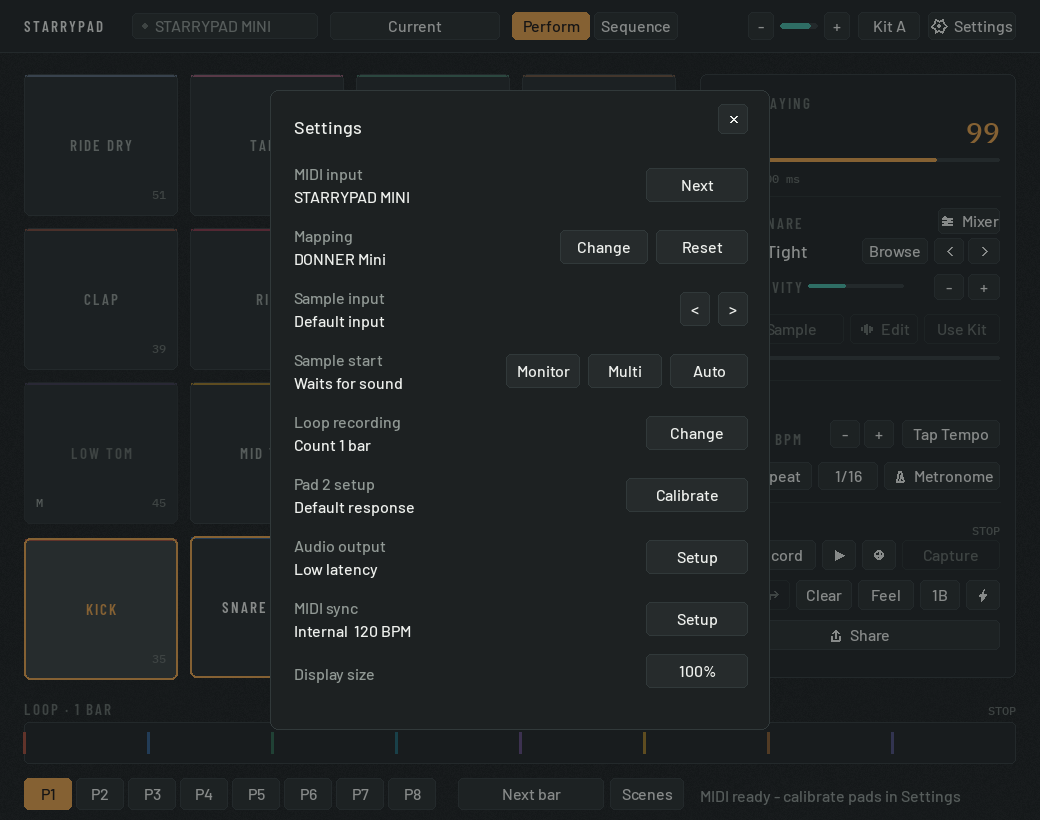
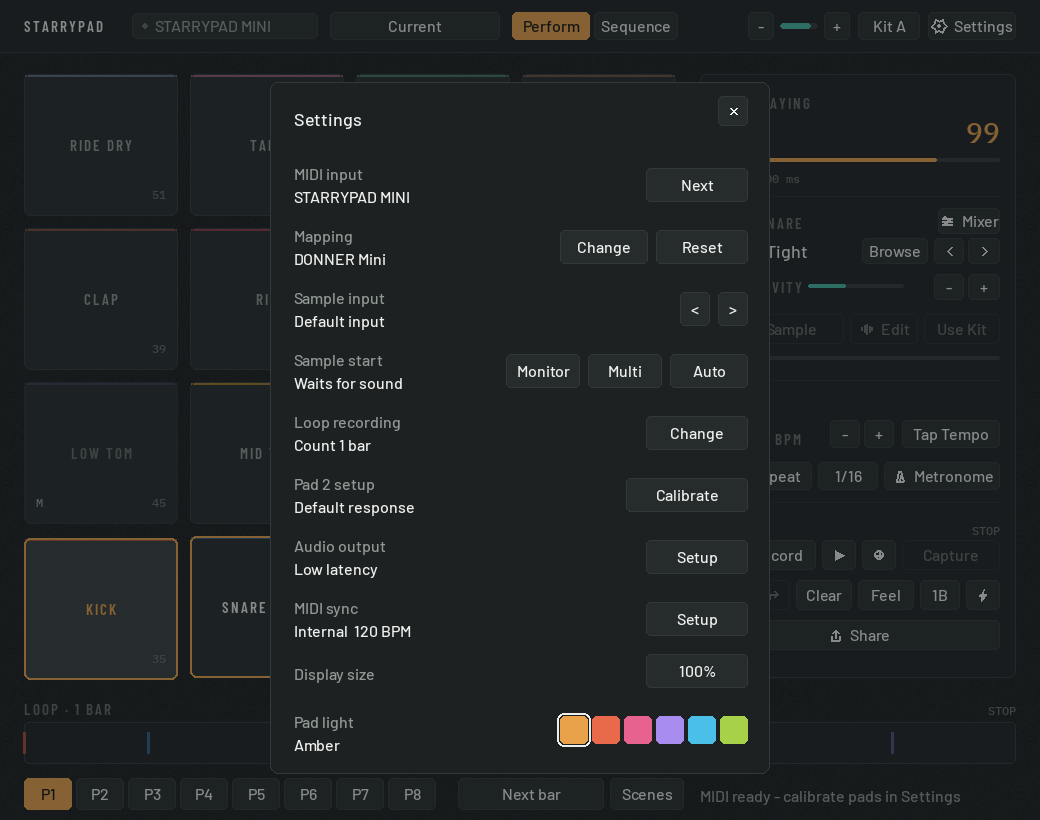
Let the pad light colour be chosen
Amber was hard coded as the one colour the panel spends on "now": the pad
sounding, the pad selected, an armed Record, the loop playhead, the drag chip
and the swap flash. Settings now offers six - Amber, Ember, Rose, Violet, Cyan
and Lime - as swatches, and the choice is remembered.

Because everything already drew through theme.ACCENT rather than importing the
value, rebinding the module global reaches the next frame and repaints every one
of those states together. Nothing else had to change.

The wash behind filled regions is derived by mixing the choice into the ground
rather than being listed per colour, and the ink drawn on top is picked by
relative luminance, so a lighter accent like Lime keeps dark text and the pair
stays readable. A test asserts that gap holds for all six.

Changed region(s): [[0.5231, 0.8537, 0.7385, 0.9146], [0.2769, 0.8537, 0.3385, 0.9146], [0.2769, 0.122, 0.3385, 0.1829]]

diff --git a/drum_pad_native.py b/drum_pad_native.py
@@ -1314,6 +1314,7 @@ class DrumPadNative:
         self.pad_drag_origin = None
         self.pad_drag_active = False
         self.pad_swap_flash = {}
+        self.accent_name = theme.DEFAULT_ACCENT
         self.solo_pads = set()
         self.mixer_bypass = False
         self.mixer_open = False
@@ -1603,6 +1604,9 @@ class DrumPadNative:
             self.audio_rate = audio_mode_config(self.audio_mode)[0]
         if self.audio_buffer not in AUDIO_BUFFERS:
             self.audio_buffer = audio_mode_config(self.audio_mode)[1]
+        accent = str(data.get("accent", theme.DEFAULT_ACCENT))
+        self.accent_name = accent if accent in theme.ACCENT_NAMES else theme.DEFAULT_ACCENT
+        theme.set_accent(self.accent_name)
         try:
             saved_scale = float(data.get("ui_scale", 1.0))
             self.ui_scale = min((1.0, 1.25, 1.5), key=lambda value: abs(value - saved_scale))
@@ -1680,6 +1684,7 @@ class DrumPadNative:
             "audio_rate": self.audio_rate,
             "audio_buffer": self.audio_buffer,
             "ui_scale": self.ui_scale,
+            "accent": self.accent_name,
             "clock_source": self.clock_source,
             "clock_output_enabled": self.clock_output_enabled,
             "midi_output_name": self.midi_output_name,
@@ -3951,6 +3956,8 @@ class DrumPadNative:
                 elif name == "ui_scale":
                     scales = (1.0, 1.25, 1.5)
                     self.set_ui_scale(scales[(scales.index(self.ui_scale) + 1) % len(scales)])
+                elif name.startswith("accent_"):
+                    self.set_accent(name.removeprefix("accent_"))
                 elif name == "sync_back":
                     self.sync_setup_open = False
                 elif name.startswith("sync_source_"):
@@ -4151,6 +4158,16 @@ class DrumPadNative:
                 self.queue_pad(index, 112)
                 self.begin_pad_drag(index, pos)
                 return
+
+    def set_accent(self, name):
+        """Repoint the one colour the panel uses to mean "now"."""
+        if name not in theme.ACCENT_NAMES:
+            return False
+        self.accent_name = name
+        theme.set_accent(name)
+        self.status = f"Pad light: {name}"
+        self.persist_settings_async()
+        return True
 
     def swap_pads(self, first, second):
         """Move one pad's sound onto another and bring its music along.
@@ -7276,12 +7293,12 @@ class DrumPadNative:
         shade = pygame.Surface(WINDOW_SIZE, pygame.SRCALPHA)
         shade.fill((20, 24, 26, 120))
         self.screen.blit(shade, (0, 0))
-        modal = pygame.Rect(270, 90, 500, 640)
+        modal = pygame.Rect(270, 82, 500, 692)
         pygame.draw.rect(self.screen, theme.PANEL, modal, border_radius=8)
         pygame.draw.rect(self.screen, theme.RULE, modal, width=1, border_radius=8)
         title = self.font.render("Settings", True, theme.INK)
-        self.screen.blit(title, (294, 116))
-        self.settings_buttons["settings_close"] = pygame.Rect(718, 104, 30, 30)
+        self.screen.blit(title, (294, 108))
+        self.settings_buttons["settings_close"] = pygame.Rect(718, 96, 30, 30)
         self.draw_button(self.settings_buttons["settings_close"], "", icon="close")
 
         if self.calibration_active:
@@ -7363,6 +7380,16 @@ class DrumPadNative:
         self.screen.blit(self.small_font.render("Display size", True, label_color), (294, 664))
         self.settings_buttons["ui_scale"] = pygame.Rect(646, 654, 102, 34)
         self.draw_button(self.settings_buttons["ui_scale"], f"{round(self.ui_scale * 100)}%")
+
+        self.screen.blit(self.small_font.render("Pad light", True, label_color), (294, 712))
+        self.screen.blit(self.small_font.render(self.accent_name, True, value_color), (294, 735))
+        for index, (name, color) in enumerate(theme.ACCENT_CHOICES):
+            swatch = pygame.Rect(560 + index * 32, 716, 28, 28)
+            self.settings_buttons[f"accent_{name}"] = swatch
+            pygame.draw.rect(self.screen, color, swatch, border_radius=theme.RADIUS["field"])
+            if name == self.accent_name:
+                pygame.draw.rect(self.screen, theme.INK, swatch.inflate(6, 6), width=2,
+                                 border_radius=theme.RADIUS["field"] + 2)
 
     def draw_sync_setup(self):
         label_color = theme.INK_2

diff --git a/test_drum_pad_native.py b/test_drum_pad_native.py
@@ -746,6 +746,45 @@ class PadSwapTests(unittest.TestCase):
         self.assertEqual(app.pad_synths[self.kick + 4], "kick")
 
 
+class AccentTests(unittest.TestCase):
+    """The accent is a module global, so every test here puts it back."""
+
+    def setUp(self):
+        import theme
+
+        self.theme = theme
+        self.addCleanup(theme.set_accent, theme.DEFAULT_ACCENT)
+        self.app = drum.DrumPadNative(settings_path=None)
+
+    def test_choosing_a_colour_repoints_accent_wash_and_ink(self):
+        self.assertTrue(self.app.set_accent("Cyan"))
+        self.assertEqual(self.app.accent_name, "Cyan")
+        self.assertEqual(self.theme.ACCENT, dict(self.theme.ACCENT_CHOICES)["Cyan"])
+        # The wash sits between the ground and the accent, never at either end.
+        self.assertNotIn(self.theme.ACCENT_SOFT, (self.theme.GROUND, self.theme.ACCENT))
+
+    def test_every_choice_keeps_its_ink_readable(self):
+        for name, color in self.theme.ACCENT_CHOICES:
+            self.theme.set_accent(name)
+            ink = self.theme.relative_luminance(self.theme.ON_ACCENT)
+            accent = self.theme.relative_luminance(color)
+            self.assertGreater(abs(accent - ink), 0.3, f"{name} ink is too close to its accent")
+
+    def test_an_unknown_colour_is_refused(self):
+        self.assertFalse(self.app.set_accent("Chartreuse"))
+        self.assertEqual(self.app.accent_name, self.theme.DEFAULT_ACCENT)
+
+    def test_the_choice_survives_a_settings_round_trip(self):
+        with tempfile.TemporaryDirectory() as directory:
+            path = Path(directory) / "settings.json"
+            app = drum.DrumPadNative(settings_path=path)
+            app.set_accent("Violet")
+            app.persist_settings()
+            reopened = drum.DrumPadNative(settings_path=path)
+            self.assertEqual(reopened.accent_name, "Violet")
+            self.assertEqual(self.theme.ACCENT, dict(self.theme.ACCENT_CHOICES)["Violet"])
+
+
 class QuitShortcutTests(unittest.TestCase):
     """Esc closes panels; quitting takes the platform chord."""
 

diff --git a/theme.py b/theme.py
@@ -36,6 +36,39 @@ RADIUS = {"pad": 6, "panel": 7, "button": 5, "field": 5}
 LABEL_TRACKING = 1.6
 
 
+# The accent is the only colour the panel spends on "now", so it is the one
+# worth letting people choose. Each entry rebuilds its own wash and ink.
+ACCENT_CHOICES = (
+    ("Amber", (233, 162, 74)),
+    ("Ember", (232, 106, 74)),
+    ("Rose", (232, 98, 143)),
+    ("Violet", (169, 140, 240)),
+    ("Cyan", (74, 192, 233)),
+    ("Lime", (168, 209, 74)),
+)
+ACCENT_NAMES = tuple(name for name, _rgb in ACCENT_CHOICES)
+DEFAULT_ACCENT = ACCENT_NAMES[0]
+
+
+def relative_luminance(color):
+    red, green, blue = (channel / 255.0 for channel in color)
+    return 0.2126 * red + 0.7152 * green + 0.0722 * blue
+
+
+def set_accent(name):
+    """Point ACCENT, its wash and its ink at one of the named choices.
+
+    Everything draws through `theme.ACCENT` rather than importing the value, so
+    rebinding here reaches the next frame.
+    """
+    global ACCENT, ACCENT_SOFT, ON_ACCENT
+    lookup = dict(ACCENT_CHOICES)
+    ACCENT = lookup.get(name, lookup[DEFAULT_ACCENT])
+    ACCENT_SOFT = mix(GROUND, ACCENT, 0.18)
+    ON_ACCENT = (24, 19, 18) if relative_luminance(ACCENT) > 0.45 else (237, 239, 236)
+    return ACCENT
+
+
 def mix(base, other, amount):
     """Blend `other` into `base`; amount 0.0 keeps base, 1.0 returns other."""
     amount = max(0.0, min(1.0, float(amount)))

diff --git a/README.md b/README.md
@@ -89,6 +89,12 @@ Controls:
 - `Browse` keeps the pads visible while filtering built-in and user sounds by type, kit, favorites, recents, or search; preview is non-destructive and missing files can be batch relinked from one folder.
 - MIDI Sync supports Auto/Internal/External clock source, 24 PPQN clock in/out, Start/Continue/Stop, output-port selection, and timing offset; external BPM is locked on the performance surface.
 - `Settings`: choose MIDI input, mapping, sample/record start behavior, calibrate the selected pad, or view diagnostics hidden during normal performance.
+- `Settings > Pad light`: pick the accent colour. Amber, Ember, Rose, Violet,
+  Cyan or Lime. It is the one colour the panel spends on "now" - the pad
+  sounding, the pad selected, an armed Record, the loop playhead and the swap
+  flash - so changing it repaints all of them together. The wash behind filled
+  regions and the ink drawn on top are derived from the choice, and the setting
+  is remembered.
 - Sampling options include an opt-in low-level input Monitor and Multi mode for recording sequentially into unused pads; clipped takes wait for Keep or Record Again before assignment.
 - `S`: start or stop sampling.
 - `Repeat`: enable note repeat while a MIDI pad remains held.
